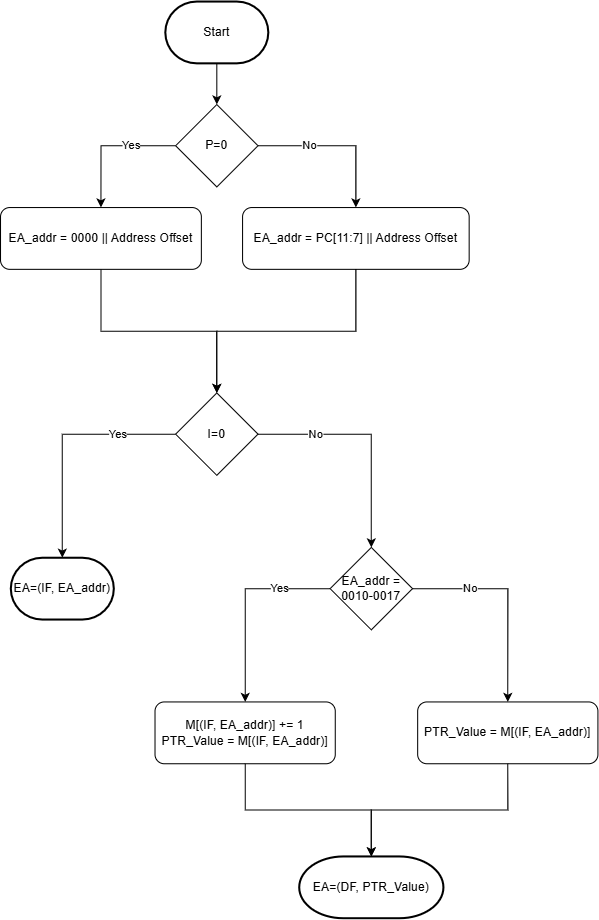
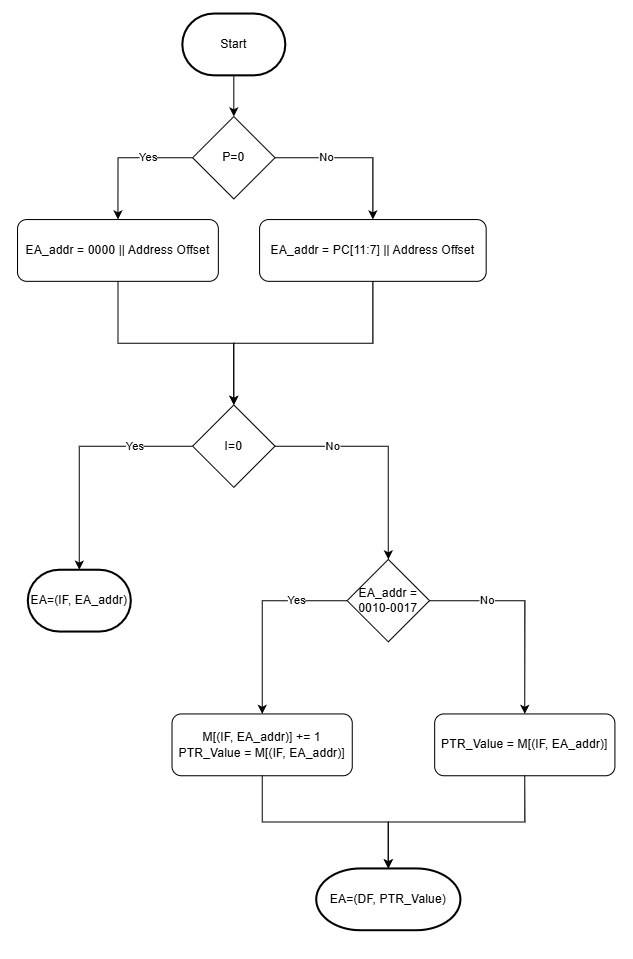
updating address resolution flowchart

Changed region(s): [[0.0, 0.0, 1.0, 1.0]]

diff --git a/docs/02-isa/05-addressing-model.md b/docs/02-isa/05-addressing-model.md
@@ -13,6 +13,10 @@ The addressing concepts in this document do not apply to:
 
 ---
 
+## Address Resolution Flowchart
+
+![Address Resolution Flowchart](../../diagrams/isa/addressing-model/export/addressing-model.png)
+
 ## Address Representation
 
 ### Logical Address
